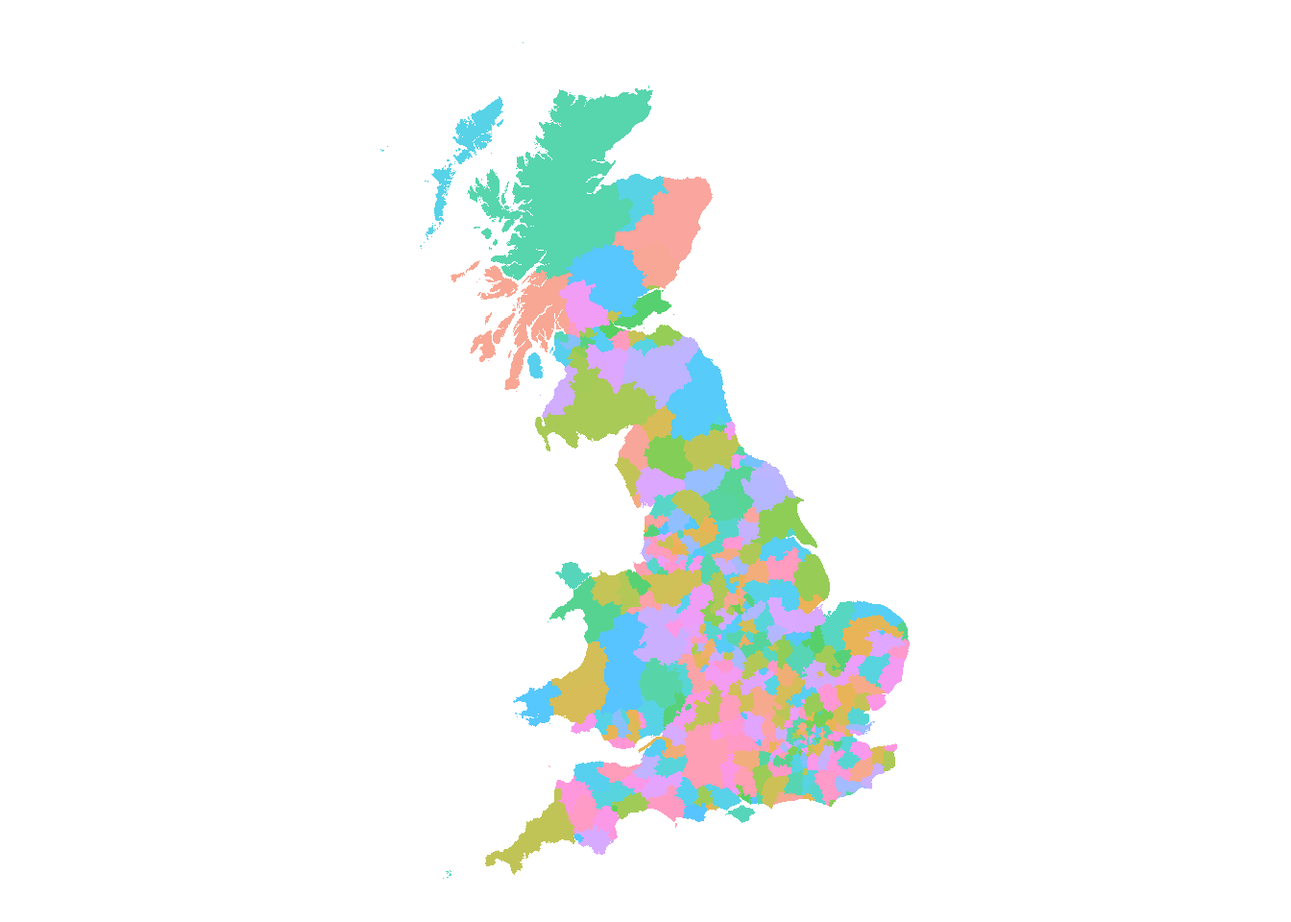
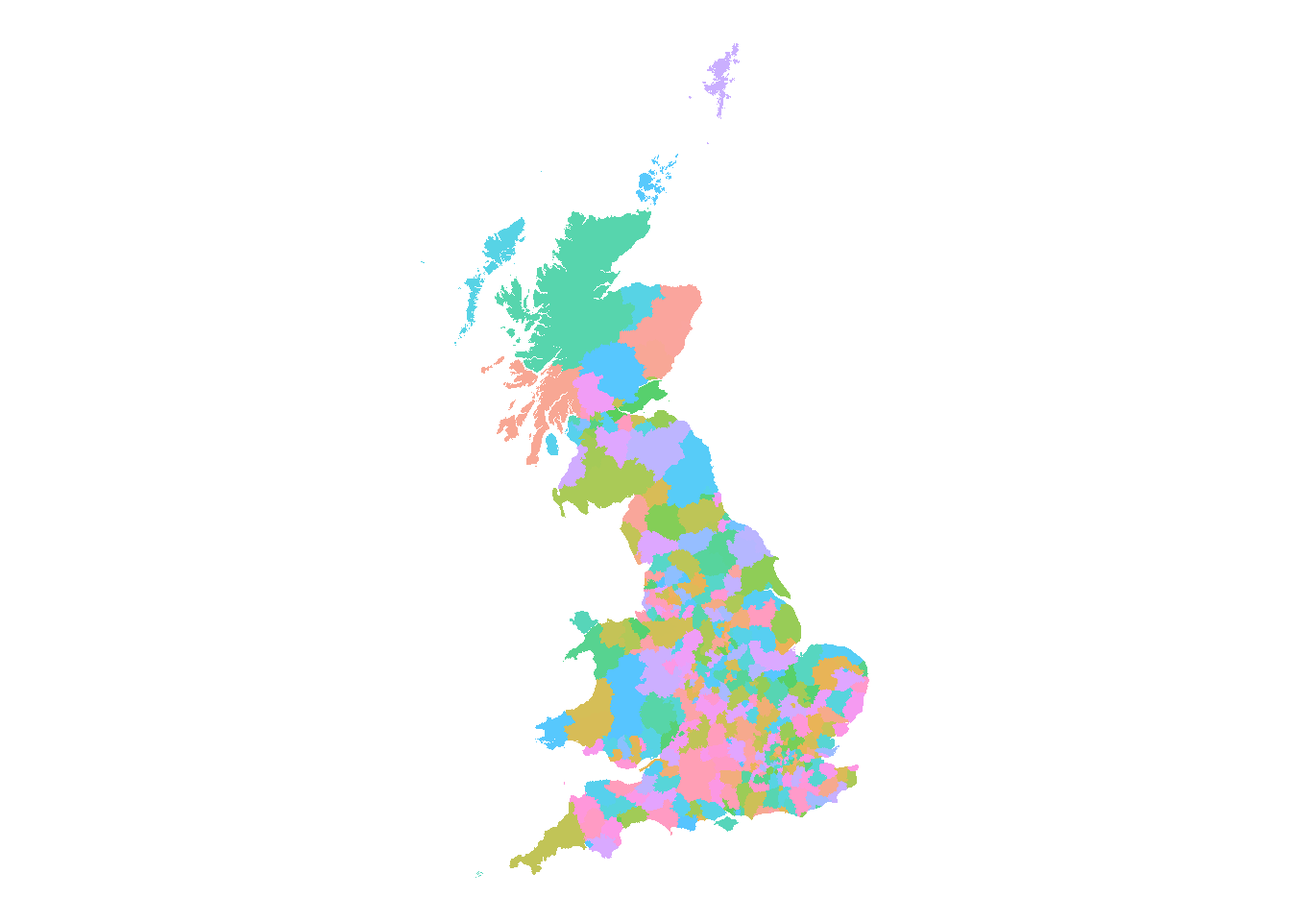
map lines

Changed region(s): [[0.3125, 0.0625, 0.7188, 0.9375]]

diff --git a/docs/Maps.html b/docs/Maps.html
@@ -232,9 +232,7 @@ div.csl-indent {
   <ul>
   <li><a href="#how-heterogenous-is-uk-house-price-inflation" id="toc-how-heterogenous-is-uk-house-price-inflation" class="nav-link active" data-scroll-target="#how-heterogenous-is-uk-house-price-inflation"><span class="toc-section-number">5.1</span>  How heterogenous is UK house price inflation?</a>
   <ul class="collapse">
-  <li><a href="#tidy-data" id="toc-tidy-data" class="nav-link" data-scroll-target="#tidy-data"><span class="toc-section-number">5.1.1</span>  Tidy data</a></li>
-  <li><a href="#la-boundaries" id="toc-la-boundaries" class="nav-link" data-scroll-target="#la-boundaries"><span class="toc-section-number">5.1.2</span>  LA boundaries</a></li>
-  <li><a href="#inflation-data-and-regions" id="toc-inflation-data-and-regions" class="nav-link" data-scroll-target="#inflation-data-and-regions"><span class="toc-section-number">5.1.3</span>  Inflation data and regions</a></li>
+  <li><a href="#inflation-data-and-regions" id="toc-inflation-data-and-regions" class="nav-link" data-scroll-target="#inflation-data-and-regions"><span class="toc-section-number">5.1.1</span>  Inflation data and regions</a></li>
   </ul></li>
   <li><a href="#inflation-in-grayscale" id="toc-inflation-in-grayscale" class="nav-link" data-scroll-target="#inflation-in-grayscale"><span class="toc-section-number">5.2</span>  Inflation in grayscale</a></li>
   </ul>
@@ -270,7 +268,7 @@ div.csl-indent {
 <li>It has to be in grayscale.</li>
 </ul>
 <p>Before all of this we need some data, with boundaries that correspond to areas that we have data for. The regional inflation data is available at the level of the <a href="https://www.gov.uk/government/organisations/land-registry">Land Registry</a>, which almost by local authority but amalgamates a number of the areas. So a map at Local Authority level would be fine as long as we can amalgamate some of the regions.</p>
-<p>The map data used here is available from the UK’s <a href="https://geoportal.statistics.gov.uk/">ONS geoportal</a>, with a lot of administrative data available including local authority boundaries. The Local Authority data is specifically available from <a href="https://geoportal.statistics.gov.uk/datasets/ons::local-authority-districts-december-2015-boundaries?layer=0">here</a>, where I use the clipped full extent version. There are a number of possibilities, but in general high water mark, and enough but not too much detail is needed.</p>
+<p>The map data used here is available from the UK’s <a href="https://geoportal.statistics.gov.uk/">ONS geoportal</a>, with a lot of administrative data available including local authority boundaries. The Local Authority data is specifically available from <a href="https://geoportal.statistics.gov.uk/maps/lad-dec-2015-generalised-clipped-boundaries-gb">here</a>, where I use the clipped full extent version. There are a number of possibilities, but in general high water mark, and enough but not too much detail is needed.</p>
 <div class="cell">
 <div class="sourceCode cell-code" id="cb1"><pre class="sourceCode r code-with-copy"><code class="sourceCode r"><span id="cb1-1"><a href="#cb1-1" aria-hidden="true" tabindex="-1"></a><span class="fu">library</span>(tidyverse)</span>
 <span id="cb1-2"><a href="#cb1-2" aria-hidden="true" tabindex="-1"></a><span class="fu">library</span>(readxl)</span>
@@ -279,22 +277,20 @@ div.csl-indent {
 <p>The information in the map file is comprehensive, and by Local Authority as of December 2015.</p>
 <div class="cell" data-layout-align="center">
 <div class="sourceCode cell-code" id="cb2"><pre class="sourceCode r code-with-copy"><code class="sourceCode r"><span id="cb2-1"><a href="#cb2-1" aria-hidden="true" tabindex="-1"></a>fle <span class="ot">&lt;-</span> <span class="st">"LAD_Dec_2015_GCB_GB"</span></span>
-<span id="cb2-2"><a href="#cb2-2" aria-hidden="true" tabindex="-1"></a>shape <span class="ot">&lt;-</span> <span class="fu">read_sf</span>(<span class="at">dsn=</span><span class="st">"."</span>, <span class="at">layer=</span>fle) <span class="sc">%&gt;%</span></span>
-<span id="cb2-3"><a href="#cb2-3" aria-hidden="true" tabindex="-1"></a>  <span class="fu">filter</span>(<span class="sc">!</span>lad15nm <span class="sc">%in%</span> <span class="fu">c</span>(<span class="st">"Shetland Islands"</span>,<span class="st">"Orkney Islands"</span>)) <span class="sc">%&gt;%</span></span>
-<span id="cb2-4"><a href="#cb2-4" aria-hidden="true" tabindex="-1"></a>  <span class="fu">mutate</span>(<span class="at">Country=</span><span class="fu">str_sub</span>(lad15cd, <span class="dv">1</span>, <span class="dv">1</span>), <span class="at">.after=</span><span class="dv">1</span>)</span></code><button title="Copy to Clipboard" class="code-copy-button"><i class="bi"></i></button></pre></div>
+<span id="cb2-2"><a href="#cb2-2" aria-hidden="true" tabindex="-1"></a>shape <span class="ot">&lt;-</span> <span class="fu">read_sf</span>(<span class="at">dsn=</span><span class="st">"."</span>, <span class="at">layer=</span>fle)</span></code><button title="Copy to Clipboard" class="code-copy-button"><i class="bi"></i></button></pre></div>
 </div>
 <p>We can look at the attributes using <code>summary</code>.</p>
 <div class="cell" data-layout-align="center">
 <div class="sourceCode cell-code" id="cb3"><pre class="sourceCode r code-with-copy"><code class="sourceCode r"><span id="cb3-1"><a href="#cb3-1" aria-hidden="true" tabindex="-1"></a><span class="fu">summary</span>(shape)</span></code><button title="Copy to Clipboard" class="code-copy-button"><i class="bi"></i></button></pre></div>
 <div class="cell-output cell-output-stdout">
-<pre><code>   lad15cd            Country            lad15nm            lad15nmw        
- Length:378         Length:378         Length:378         Length:378        
+<pre><code>   lad15cd            lad15nm            lad15nmw           GlobalID        
+ Length:380         Length:380         Length:380         Length:380        
  Class :character   Class :character   Class :character   Class :character  
  Mode  :character   Mode  :character   Mode  :character   Mode  :character  
-   GlobalID                  geometry  
- Length:378         MULTIPOLYGON :378  
- Class :character   epsg:27700   :  0  
- Mode  :character   +proj=tmer...:  0  </code></pre>
+          geometry  
+ MULTIPOLYGON :380  
+ epsg:27700   :  0  
+ +proj=tmer...:  0  </code></pre>
 </div>
 </div>
 <p>This can be plotted straightforwardly using <code>ggplot</code>.</p>
@@ -311,61 +307,63 @@ div.csl-indent {
 </figure>
 </div>
 </div>
-<div class="sourceCode cell-code" id="cb6"><pre class="sourceCode r code-with-copy"><code class="sourceCode r"><span id="cb6-1"><a href="#cb6-1" aria-hidden="true" tabindex="-1"></a>shape <span class="sc">%&gt;%</span></span>
-<span id="cb6-2"><a href="#cb6-2" aria-hidden="true" tabindex="-1"></a>  <span class="fu">group_by</span>(Country) <span class="sc">%&gt;%</span></span>
-<span id="cb6-3"><a href="#cb6-3" aria-hidden="true" tabindex="-1"></a>  <span class="fu">summarise</span>() <span class="sc">%&gt;%</span></span>
-<span id="cb6-4"><a href="#cb6-4" aria-hidden="true" tabindex="-1"></a>  <span class="fu">ggplot</span>() <span class="sc">+</span></span>
-<span id="cb6-5"><a href="#cb6-5" aria-hidden="true" tabindex="-1"></a>  <span class="fu">geom_sf</span>(<span class="fu">aes</span>(<span class="at">fill=</span>Country), <span class="at">color=</span><span class="st">"grey77"</span>, <span class="at">alpha=</span>.<span class="dv">66</span>) <span class="sc">+</span></span>
-<span id="cb6-6"><a href="#cb6-6" aria-hidden="true" tabindex="-1"></a>  <span class="fu">theme_void</span>()</span></code><button title="Copy to Clipboard" class="code-copy-button"><i class="bi"></i></button></pre></div>
+</div>
+<p>Looking at the read-out above, each of the 380 regions have some metadata associated, which are contained in each of the listed attributes. It should be obvious that <code>objectid</code> is just a sequence from 1 to 380. <code>lad15nm</code> turns out to be a list of names of the regions – I suspect <code>lad</code> for Local Authority District, <code>15</code> for 2015 and <code>nm</code> for name – and it is easy to specify this as the name to use for the region when using <code>tidy</code>.</p>
+<p>Now this can be plotted using <code>ggplot</code>, using <code>geometry</code> for the <span class="math inline">\(x\)</span> and <span class="math inline">\(y\)</span> coordinates. The choice of fill colour is determined by <code>fill</code> and we can set the colour of the lines by <code>colour</code> (or <code>color</code>). The two extra arguments are for a suitable blank style and to impose an appropriate ratio of height to width.</p>
+<p>Immediately, the awkward shape of the British Isles is apparent. (Note this is a plot of Great Britain, and there is no Northern Ireland.) The islands to the far north are somewhat unnecessary, although quite rightly the inhabitants get a bit tired of being left off maps! Nonetheless I’ll do exactly the same by filtering out the polygons associated with <code>Orkney Islands</code> and <code>Shetland Islands</code>.</p>
+<p>Fewer Scottish Islands makes the graphs a lot clearer with little loss of information, given the tiny number of transactions in the Orkneys and the Shetlands, very far to the north.</p>
+<p>In what follows we filter out the islands using</p>
+<div class="cell" data-layout-align="center">
+<div class="sourceCode cell-code" id="cb6"><pre class="sourceCode r code-with-copy"><code class="sourceCode r"><span id="cb6-1"><a href="#cb6-1" aria-hidden="true" tabindex="-1"></a>fle <span class="ot">&lt;-</span> <span class="st">"LAD_Dec_2015_GCB_GB"</span></span>
+<span id="cb6-2"><a href="#cb6-2" aria-hidden="true" tabindex="-1"></a>shape <span class="ot">&lt;-</span> <span class="fu">read_sf</span>(<span class="at">dsn=</span><span class="st">"."</span>, <span class="at">layer=</span>fle) <span class="sc">%&gt;%</span></span>
+<span id="cb6-3"><a href="#cb6-3" aria-hidden="true" tabindex="-1"></a>  <span class="fu">filter</span>(<span class="sc">!</span>lad15nm <span class="sc">%in%</span> <span class="fu">c</span>(<span class="st">"Shetland Islands"</span>,<span class="st">"Orkney Islands"</span>)) <span class="sc">%&gt;%</span></span>
+<span id="cb6-4"><a href="#cb6-4" aria-hidden="true" tabindex="-1"></a>  <span class="fu">mutate</span>(<span class="at">Country=</span><span class="fu">str_sub</span>(lad15cd, <span class="dv">1</span>, <span class="dv">1</span>), <span class="at">.after=</span><span class="dv">1</span>)</span></code><button title="Copy to Clipboard" class="code-copy-button"><i class="bi"></i></button></pre></div>
+</div>
+<p>where we also create an indicator of country using the first letter of the code string.</p>
+<p>So the country map is</p>
+<div class="cell" data-layout-align="center">
+<div class="sourceCode cell-code" id="cb7"><pre class="sourceCode r code-with-copy"><code class="sourceCode r"><span id="cb7-1"><a href="#cb7-1" aria-hidden="true" tabindex="-1"></a>shape <span class="sc">%&gt;%</span></span>
+<span id="cb7-2"><a href="#cb7-2" aria-hidden="true" tabindex="-1"></a>  <span class="fu">group_by</span>(Country) <span class="sc">%&gt;%</span></span>
+<span id="cb7-3"><a href="#cb7-3" aria-hidden="true" tabindex="-1"></a>  <span class="fu">summarise</span>() <span class="sc">%&gt;%</span></span>
+<span id="cb7-4"><a href="#cb7-4" aria-hidden="true" tabindex="-1"></a>  <span class="fu">ggplot</span>() <span class="sc">+</span></span>
+<span id="cb7-5"><a href="#cb7-5" aria-hidden="true" tabindex="-1"></a>  <span class="fu">geom_sf</span>(<span class="fu">aes</span>(<span class="at">fill=</span>Country), <span class="at">color=</span><span class="st">"grey77"</span>, <span class="at">linewidth=</span><span class="dv">1</span>, <span class="at">alpha=</span>.<span class="dv">66</span>) <span class="sc">+</span></span>
+<span id="cb7-6"><a href="#cb7-6" aria-hidden="true" tabindex="-1"></a>  <span class="fu">theme_void</span>()</span></code><button title="Copy to Clipboard" class="code-copy-button"><i class="bi"></i></button></pre></div>
 <div class="cell-output-display">
 <div class="quarto-figure quarto-figure-center">
 <figure class="figure">
-<p><img src="Maps_files/figure-html/map0a-2.png" class="img-fluid figure-img" width="672"></p>
+<p><img src="Maps_files/figure-html/map0d-1.png" class="img-fluid figure-img" width="672"></p>
 </figure>
 </div>
 </div>
 </div>
-<section id="tidy-data" class="level3" data-number="5.1.1">
-<h3 data-number="5.1.1" class="anchored" data-anchor-id="tidy-data"><span class="header-section-number">5.1.1</span> Tidy data</h3>
-<p>However, <code>ggplot</code> can be used.</p>
-<p>Looking at the read-out above, each of the 380 regions have some metadata associated, which are contained in each of the listed attributes. It should be obvious that <code>objectid</code> is just a sequence from 1 to 380. <code>lad15nm</code> turns out to be a list of names of the regions – I suspect <code>lad</code> for Local Authority District, <code>15</code> for 2015 and <code>nm</code> for name – and it is easy to specify this as the name to use for the region when using <code>tidy</code>.</p>
-<p>Now this can be plotted using <code>ggplot</code>, using <code>long</code> and <code>lat</code> as the <span class="math inline">\(x\)</span> and <span class="math inline">\(y\)</span> coordinates. The choice of fill colour is determined by <code>fill</code> and we can set the colour of the lines by <code>colour</code> (or <code>color</code>). The two extra arguments are for a suitable blank style and to impose an appropriate ratio of height to width.</p>
-<p>Immediately, the awkward shape of the British Isles is apparent. (Note this is a plot of Great Britain, and there is no Northern Ireland.) The islands to the far north are somewhat unnecessary, although quite rightly the inhabitants get a bit tired of being left off maps! Nonetheless I’ll do exactly the same by filtering out the polygons associated with <code>Orkney Islands</code> and <code>Shetland Islands</code>.</p>
-<div class="cell" data-layout-align="center">
-
-</div>
-<p>Fewer Scottish Islands makes the graphs a lot clearer with little loss of information, given the tiny number of transactions in the Orkneys and the Shetlands, very far to the north.</p>
-</section>
-<section id="la-boundaries" class="level3" data-number="5.1.2">
-<h3 data-number="5.1.2" class="anchored" data-anchor-id="la-boundaries"><span class="header-section-number">5.1.2</span> LA boundaries</h3>
-<p>You may have noticed, one thing that that’s missing on all of these graphs is the Local Authority boundaries. They aren’t, they’re just invisible. That’s because I have set <code>colour = NA</code> in all the graphs above, so we can fix that by choosing a colour and making the lines very thin so they don’t swamp the map.</p>
+<p>Note the really nice feature – if we group by something, in this case country, we can summarise to amalgamate the geometries!</p>
+<p>You may have noticed, one thing that that’s missing on the LA graphs is the boundaries. They aren’t, they’re just invisible. That’s because I have set <code>colour = NA</code>, so we can fix that by choosing a colour and making the lines very thin so they don’t swamp the map, as in the country one.</p>
 <div class="cell" data-layout-align="center">
 
 </div>
 <p>One further amendment, the <code>fill</code> is moved inside the <code>aes()</code> specification and made conditional. <code>R</code> now chooses unique colours for each of the regions.</p>
 <p>Two things now need to be done to get the map colours right to illustrate regional inflation rates. First we need to amalgamate some of the Local Authority boundaries to the Land Registry definitions, and second we need to assign the inflation rate to each area.</p>
-</section>
-<section id="inflation-data-and-regions" class="level3" data-number="5.1.3">
-<h3 data-number="5.1.3" class="anchored" data-anchor-id="inflation-data-and-regions"><span class="header-section-number">5.1.3</span> Inflation data and regions</h3>
+<section id="inflation-data-and-regions" class="level3" data-number="5.1.1">
+<h3 data-number="5.1.1" class="anchored" data-anchor-id="inflation-data-and-regions"><span class="header-section-number">5.1.1</span> Inflation data and regions</h3>
 <p>We have a map, and we have that data in a form that is easy to understand. If we can suitably attach an inflation rate to each area then we can fill the individual areas with a colour unique to each individual inflation rates.</p>
 <p>Recall that the Land Registry areas aren’t quite what we have, and will need amalgamating. <span class="citation" data-cites="BFP">Bahaj, Foulis, and Pinter (<a href="references.html#ref-BFP" role="doc-biblioref">2020</a>)</span> supplied me the areas that needed amalgamating (and the inflation rates) using the <a href="https://en.wikipedia.org/wiki/ONS_coding_system">ONS codes</a>. This is contained in the metadata <code>lad15cd</code> above.</p>
 <p>The data is structured in ‘wide’ format with one row for each Land Registry region. The details aren’t very important for us now, but what it means is I can manipulate it to get</p>
 <div class="cell">
-<div class="sourceCode cell-code" id="cb7"><pre class="sourceCode r code-with-copy"><code class="sourceCode r"><span id="cb7-1"><a href="#cb7-1" aria-hidden="true" tabindex="-1"></a><span class="co"># Price data by Land Registry region, converted to long format</span></span>
-<span id="cb7-2"><a href="#cb7-2" aria-hidden="true" tabindex="-1"></a>hp_data <span class="ot">&lt;-</span> <span class="fu">read_excel</span>(<span class="st">"house_price_data_figure_1.xls"</span>)  <span class="sc">%&gt;%</span> </span>
-<span id="cb7-3"><a href="#cb7-3" aria-hidden="true" tabindex="-1"></a>  <span class="fu">select</span>(<span class="st">"land_reg_region"</span>, <span class="fu">starts_with</span>(<span class="st">"e_"</span>), <span class="fu">starts_with</span>(<span class="st">"av_"</span>)) <span class="sc">%&gt;%</span> </span>
-<span id="cb7-4"><a href="#cb7-4" aria-hidden="true" tabindex="-1"></a>  <span class="fu">pivot_longer</span>(<span class="at">names_to  =</span> <span class="st">"name"</span>, </span>
-<span id="cb7-5"><a href="#cb7-5" aria-hidden="true" tabindex="-1"></a>               <span class="at">values_to =</span> <span class="st">"lad15cd"</span>, </span>
-<span id="cb7-6"><a href="#cb7-6" aria-hidden="true" tabindex="-1"></a>               <span class="at">cols      =</span> <span class="fu">c</span>(<span class="sc">-</span>land_reg_region, <span class="sc">-</span><span class="fu">starts_with</span>(<span class="st">"av_"</span>))) <span class="sc">%&gt;%</span> </span>
-<span id="cb7-7"><a href="#cb7-7" aria-hidden="true" tabindex="-1"></a>  <span class="fu">drop_na</span>() <span class="sc">%&gt;%</span></span>
-<span id="cb7-8"><a href="#cb7-8" aria-hidden="true" tabindex="-1"></a>  <span class="fu">select</span>(land_reg_region, lad15cd, <span class="fu">starts_with</span>(<span class="st">"av_"</span>)) </span>
-<span id="cb7-9"><a href="#cb7-9" aria-hidden="true" tabindex="-1"></a></span>
-<span id="cb7-10"><a href="#cb7-10" aria-hidden="true" tabindex="-1"></a>codes <span class="ot">&lt;-</span> hp_data <span class="sc">%&gt;%</span> </span>
-<span id="cb7-11"><a href="#cb7-11" aria-hidden="true" tabindex="-1"></a>  <span class="fu">select</span>(lad15cd, land_reg_region) </span></code><button title="Copy to Clipboard" class="code-copy-button"><i class="bi"></i></button></pre></div>
+<div class="sourceCode cell-code" id="cb8"><pre class="sourceCode r code-with-copy"><code class="sourceCode r"><span id="cb8-1"><a href="#cb8-1" aria-hidden="true" tabindex="-1"></a><span class="co"># Price data by Land Registry region, converted to long format</span></span>
+<span id="cb8-2"><a href="#cb8-2" aria-hidden="true" tabindex="-1"></a>hp_data <span class="ot">&lt;-</span> <span class="fu">read_excel</span>(<span class="st">"house_price_data_figure_1.xls"</span>)  <span class="sc">%&gt;%</span> </span>
+<span id="cb8-3"><a href="#cb8-3" aria-hidden="true" tabindex="-1"></a>  <span class="fu">select</span>(<span class="st">"land_reg_region"</span>, <span class="fu">starts_with</span>(<span class="st">"e_"</span>), <span class="fu">starts_with</span>(<span class="st">"av_"</span>)) <span class="sc">%&gt;%</span> </span>
+<span id="cb8-4"><a href="#cb8-4" aria-hidden="true" tabindex="-1"></a>  <span class="fu">pivot_longer</span>(<span class="at">names_to  =</span> <span class="st">"name"</span>, </span>
+<span id="cb8-5"><a href="#cb8-5" aria-hidden="true" tabindex="-1"></a>               <span class="at">values_to =</span> <span class="st">"lad15cd"</span>, </span>
+<span id="cb8-6"><a href="#cb8-6" aria-hidden="true" tabindex="-1"></a>               <span class="at">cols      =</span> <span class="fu">c</span>(<span class="sc">-</span>land_reg_region, <span class="sc">-</span><span class="fu">starts_with</span>(<span class="st">"av_"</span>))) <span class="sc">%&gt;%</span> </span>
+<span id="cb8-7"><a href="#cb8-7" aria-hidden="true" tabindex="-1"></a>  <span class="fu">drop_na</span>() <span class="sc">%&gt;%</span></span>
+<span id="cb8-8"><a href="#cb8-8" aria-hidden="true" tabindex="-1"></a>  <span class="fu">select</span>(land_reg_region, lad15cd, <span class="fu">starts_with</span>(<span class="st">"av_"</span>)) </span>
+<span id="cb8-9"><a href="#cb8-9" aria-hidden="true" tabindex="-1"></a></span>
+<span id="cb8-10"><a href="#cb8-10" aria-hidden="true" tabindex="-1"></a>codes <span class="ot">&lt;-</span> hp_data <span class="sc">%&gt;%</span> </span>
+<span id="cb8-11"><a href="#cb8-11" aria-hidden="true" tabindex="-1"></a>  <span class="fu">select</span>(lad15cd, land_reg_region) </span></code><button title="Copy to Clipboard" class="code-copy-button"><i class="bi"></i></button></pre></div>
 </div>
 <p>The important thing that the <code>pivot_longer</code> achieves is that for every <code>land_reg_region</code> I get a list of all the ONS codes that makes up the Local Authority level. So if I look at <code>buckinghamshire</code> as an example there are four ONS codes now associated with it.</p>
 <div class="cell">
-<div class="sourceCode cell-code" id="cb8"><pre class="sourceCode r code-with-copy"><code class="sourceCode r"><span id="cb8-1"><a href="#cb8-1" aria-hidden="true" tabindex="-1"></a><span class="fu">filter</span>(codes, land_reg_region <span class="sc">==</span> <span class="st">"buckinghamshire"</span>)</span></code><button title="Copy to Clipboard" class="code-copy-button"><i class="bi"></i></button></pre></div>
+<div class="sourceCode cell-code" id="cb9"><pre class="sourceCode r code-with-copy"><code class="sourceCode r"><span id="cb9-1"><a href="#cb9-1" aria-hidden="true" tabindex="-1"></a><span class="fu">filter</span>(codes, land_reg_region <span class="sc">==</span> <span class="st">"buckinghamshire"</span>)</span></code><button title="Copy to Clipboard" class="code-copy-button"><i class="bi"></i></button></pre></div>
 <div class="cell-output cell-output-stdout">
 <pre><code># A tibble: 4 × 2
   lad15cd   land_reg_region
@@ -378,12 +376,12 @@ div.csl-indent {
 </div>
 <p>Join:</p>
 <div class="cell">
-<div class="sourceCode cell-code" id="cb10"><pre class="sourceCode r code-with-copy"><code class="sourceCode r"><span id="cb10-1"><a href="#cb10-1" aria-hidden="true" tabindex="-1"></a><span class="co"># Join polygons defined by Land Registry regions</span></span>
-<span id="cb10-2"><a href="#cb10-2" aria-hidden="true" tabindex="-1"></a>gg <span class="ot">&lt;-</span> shape <span class="sc">%&gt;%</span></span>
-<span id="cb10-3"><a href="#cb10-3" aria-hidden="true" tabindex="-1"></a>  <span class="fu">select</span>(<span class="fu">starts_with</span>(<span class="fu">c</span>(<span class="st">"lad"</span>,<span class="st">"C"</span>))) <span class="sc">%&gt;%</span> </span>
-<span id="cb10-4"><a href="#cb10-4" aria-hidden="true" tabindex="-1"></a>  <span class="fu">left_join</span>(codes, <span class="at">by=</span><span class="st">"lad15cd"</span>) <span class="sc">%&gt;%</span></span>
-<span id="cb10-5"><a href="#cb10-5" aria-hidden="true" tabindex="-1"></a>  <span class="fu">group_by</span>(land_reg_region) <span class="sc">%&gt;%</span></span>
-<span id="cb10-6"><a href="#cb10-6" aria-hidden="true" tabindex="-1"></a>  <span class="fu">summarise</span>() </span></code><button title="Copy to Clipboard" class="code-copy-button"><i class="bi"></i></button></pre></div>
+<div class="sourceCode cell-code" id="cb11"><pre class="sourceCode r code-with-copy"><code class="sourceCode r"><span id="cb11-1"><a href="#cb11-1" aria-hidden="true" tabindex="-1"></a><span class="co"># Join polygons defined by Land Registry regions</span></span>
+<span id="cb11-2"><a href="#cb11-2" aria-hidden="true" tabindex="-1"></a>gg <span class="ot">&lt;-</span> shape <span class="sc">%&gt;%</span></span>
+<span id="cb11-3"><a href="#cb11-3" aria-hidden="true" tabindex="-1"></a>  <span class="fu">select</span>(<span class="fu">starts_with</span>(<span class="fu">c</span>(<span class="st">"lad"</span>,<span class="st">"C"</span>))) <span class="sc">%&gt;%</span> </span>
+<span id="cb11-4"><a href="#cb11-4" aria-hidden="true" tabindex="-1"></a>  <span class="fu">left_join</span>(codes, <span class="at">by=</span><span class="st">"lad15cd"</span>) <span class="sc">%&gt;%</span></span>
+<span id="cb11-5"><a href="#cb11-5" aria-hidden="true" tabindex="-1"></a>  <span class="fu">group_by</span>(land_reg_region) <span class="sc">%&gt;%</span></span>
+<span id="cb11-6"><a href="#cb11-6" aria-hidden="true" tabindex="-1"></a>  <span class="fu">summarise</span>() </span></code><button title="Copy to Clipboard" class="code-copy-button"><i class="bi"></i></button></pre></div>
 </div>
 <p>produces a match between the Land Registry and the Local Authority areas, plus the inflation rates. To illustrate this just filter out the <code>buckinghamshire</code> ones again to see:</p>
 </section>
@@ -393,11 +391,11 @@ div.csl-indent {
 <p>All the information required to plot the Land Registry-based regional inflation rates is now available. As you can see from the <code>buckinghamshire</code> data above, there are three average rates in three different periods, so I’ll focus on one, 2002-2007 to begin with.</p>
 <p>First, augment the geographic data with the inflation data, and call them something better.</p>
 <div class="cell" data-layout-align="center">
-<div class="sourceCode cell-code" id="cb11"><pre class="sourceCode r code-with-copy"><code class="sourceCode r"><span id="cb11-1"><a href="#cb11-1" aria-hidden="true" tabindex="-1"></a>gg <span class="sc">%&gt;%</span></span>
-<span id="cb11-2"><a href="#cb11-2" aria-hidden="true" tabindex="-1"></a>  <span class="fu">ggplot</span>() <span class="sc">+</span></span>
-<span id="cb11-3"><a href="#cb11-3" aria-hidden="true" tabindex="-1"></a>  <span class="fu">geom_sf</span>(<span class="fu">aes</span>(<span class="at">geometry=</span>geometry, <span class="at">fill=</span>land_reg_region), </span>
-<span id="cb11-4"><a href="#cb11-4" aria-hidden="true" tabindex="-1"></a>          <span class="at">color=</span><span class="cn">NA</span>, <span class="at">alpha=</span>.<span class="dv">66</span>, <span class="at">show.legend =</span> <span class="cn">FALSE</span>) <span class="sc">+</span></span>
-<span id="cb11-5"><a href="#cb11-5" aria-hidden="true" tabindex="-1"></a>  <span class="fu">theme_void</span>()</span></code><button title="Copy to Clipboard" class="code-copy-button"><i class="bi"></i></button></pre></div>
+<div class="sourceCode cell-code" id="cb12"><pre class="sourceCode r code-with-copy"><code class="sourceCode r"><span id="cb12-1"><a href="#cb12-1" aria-hidden="true" tabindex="-1"></a>gg <span class="sc">%&gt;%</span></span>
+<span id="cb12-2"><a href="#cb12-2" aria-hidden="true" tabindex="-1"></a>  <span class="fu">ggplot</span>() <span class="sc">+</span></span>
+<span id="cb12-3"><a href="#cb12-3" aria-hidden="true" tabindex="-1"></a>  <span class="fu">geom_sf</span>(<span class="fu">aes</span>(<span class="at">geometry=</span>geometry, <span class="at">fill=</span>land_reg_region), </span>
+<span id="cb12-4"><a href="#cb12-4" aria-hidden="true" tabindex="-1"></a>          <span class="at">color=</span><span class="cn">NA</span>, <span class="at">alpha=</span>.<span class="dv">66</span>, <span class="at">show.legend =</span> <span class="cn">FALSE</span>) <span class="sc">+</span></span>
+<span id="cb12-5"><a href="#cb12-5" aria-hidden="true" tabindex="-1"></a>  <span class="fu">theme_void</span>()</span></code><button title="Copy to Clipboard" class="code-copy-button"><i class="bi"></i></button></pre></div>
 <div class="cell-output-display">
 <div class="quarto-figure quarto-figure-center">
 <figure class="figure">
@@ -408,21 +406,21 @@ div.csl-indent {
 </div>
 <p>Then calculate some limits for the gradient, and modify the specify a plot to include specifically gray and put the legend at the bottom.</p>
 <div class="cell" data-layout-align="center">
-<div class="sourceCode cell-code" id="cb12"><pre class="sourceCode r code-with-copy"><code class="sourceCode r"><span id="cb12-1"><a href="#cb12-1" aria-hidden="true" tabindex="-1"></a>nms <span class="ot">&lt;-</span> <span class="fu">gsub</span>(<span class="st">"av_hp_growth"</span>, <span class="st">"HPI"</span>, <span class="fu">colnames</span>(hp_data))</span>
-<span id="cb12-2"><a href="#cb12-2" aria-hidden="true" tabindex="-1"></a></span>
-<span id="cb12-3"><a href="#cb12-3" aria-hidden="true" tabindex="-1"></a>hp_data <span class="sc">%&gt;%</span></span>
-<span id="cb12-4"><a href="#cb12-4" aria-hidden="true" tabindex="-1"></a>  <span class="fu">rename_all</span>( <span class="sc">~</span> nms) <span class="sc">%&gt;%</span></span>
-<span id="cb12-5"><a href="#cb12-5" aria-hidden="true" tabindex="-1"></a>  <span class="fu">select</span>(land_reg_region, <span class="fu">starts_with</span>(<span class="st">"HPI"</span>)) <span class="sc">%&gt;%</span></span>
-<span id="cb12-6"><a href="#cb12-6" aria-hidden="true" tabindex="-1"></a>  <span class="fu">distinct</span>() <span class="sc">%&gt;%</span></span>
-<span id="cb12-7"><a href="#cb12-7" aria-hidden="true" tabindex="-1"></a>  <span class="fu">left_join</span>(gg) <span class="sc">%&gt;%</span></span>
-<span id="cb12-8"><a href="#cb12-8" aria-hidden="true" tabindex="-1"></a>  <span class="fu">ggplot</span>() <span class="sc">+</span></span>
-<span id="cb12-9"><a href="#cb12-9" aria-hidden="true" tabindex="-1"></a>  <span class="fu">geom_sf</span>(<span class="fu">aes</span>(<span class="at">geometry=</span>geometry, <span class="at">fill=</span>HPI_02_07), </span>
-<span id="cb12-10"><a href="#cb12-10" aria-hidden="true" tabindex="-1"></a>          <span class="at">color=</span><span class="cn">NA</span>, <span class="at">alpha=</span>.<span class="dv">66</span>, <span class="at">show.legend =</span> <span class="cn">FALSE</span>) <span class="sc">+</span></span>
-<span id="cb12-11"><a href="#cb12-11" aria-hidden="true" tabindex="-1"></a>  <span class="fu">theme_void</span>() <span class="sc">+</span></span>
-<span id="cb12-12"><a href="#cb12-12" aria-hidden="true" tabindex="-1"></a>  <span class="fu">scale_fill_gradient</span>(<span class="at">low=</span><span class="fu">grey</span>(<span class="fl">0.9</span>), <span class="at">high=</span><span class="fu">grey</span>(<span class="fl">0.05</span>)) <span class="sc">+</span></span>
-<span id="cb12-13"><a href="#cb12-13" aria-hidden="true" tabindex="-1"></a>  <span class="fu">theme</span>(<span class="at">legend.direction =</span> <span class="st">"horizontal"</span>, </span>
-<span id="cb12-14"><a href="#cb12-14" aria-hidden="true" tabindex="-1"></a>        <span class="at">legend.position  =</span> <span class="fu">c</span>(<span class="fl">0.75</span>,<span class="fl">0.05</span>),</span>
-<span id="cb12-15"><a href="#cb12-15" aria-hidden="true" tabindex="-1"></a>        <span class="at">legend.title     =</span> <span class="fu">element_blank</span>())</span></code><button title="Copy to Clipboard" class="code-copy-button"><i class="bi"></i></button></pre></div>
+<div class="sourceCode cell-code" id="cb13"><pre class="sourceCode r code-with-copy"><code class="sourceCode r"><span id="cb13-1"><a href="#cb13-1" aria-hidden="true" tabindex="-1"></a>nms <span class="ot">&lt;-</span> <span class="fu">gsub</span>(<span class="st">"av_hp_growth"</span>, <span class="st">"HPI"</span>, <span class="fu">colnames</span>(hp_data))</span>
+<span id="cb13-2"><a href="#cb13-2" aria-hidden="true" tabindex="-1"></a></span>
+<span id="cb13-3"><a href="#cb13-3" aria-hidden="true" tabindex="-1"></a>hp_data <span class="sc">%&gt;%</span></span>
+<span id="cb13-4"><a href="#cb13-4" aria-hidden="true" tabindex="-1"></a>  <span class="fu">rename_all</span>( <span class="sc">~</span> nms) <span class="sc">%&gt;%</span></span>
+<span id="cb13-5"><a href="#cb13-5" aria-hidden="true" tabindex="-1"></a>  <span class="fu">select</span>(land_reg_region, <span class="fu">starts_with</span>(<span class="st">"HPI"</span>)) <span class="sc">%&gt;%</span></span>
+<span id="cb13-6"><a href="#cb13-6" aria-hidden="true" tabindex="-1"></a>  <span class="fu">distinct</span>() <span class="sc">%&gt;%</span></span>
+<span id="cb13-7"><a href="#cb13-7" aria-hidden="true" tabindex="-1"></a>  <span class="fu">left_join</span>(gg) <span class="sc">%&gt;%</span></span>
+<span id="cb13-8"><a href="#cb13-8" aria-hidden="true" tabindex="-1"></a>  <span class="fu">ggplot</span>() <span class="sc">+</span></span>
+<span id="cb13-9"><a href="#cb13-9" aria-hidden="true" tabindex="-1"></a>  <span class="fu">geom_sf</span>(<span class="fu">aes</span>(<span class="at">geometry=</span>geometry, <span class="at">fill=</span>HPI_02_07), </span>
+<span id="cb13-10"><a href="#cb13-10" aria-hidden="true" tabindex="-1"></a>          <span class="at">color=</span><span class="cn">NA</span>, <span class="at">alpha=</span>.<span class="dv">66</span>, <span class="at">show.legend =</span> <span class="cn">FALSE</span>) <span class="sc">+</span></span>
+<span id="cb13-11"><a href="#cb13-11" aria-hidden="true" tabindex="-1"></a>  <span class="fu">theme_void</span>() <span class="sc">+</span></span>
+<span id="cb13-12"><a href="#cb13-12" aria-hidden="true" tabindex="-1"></a>  <span class="fu">scale_fill_gradient</span>(<span class="at">low=</span><span class="fu">grey</span>(<span class="fl">0.9</span>), <span class="at">high=</span><span class="fu">grey</span>(<span class="fl">0.05</span>)) <span class="sc">+</span></span>
+<span id="cb13-13"><a href="#cb13-13" aria-hidden="true" tabindex="-1"></a>  <span class="fu">theme</span>(<span class="at">legend.direction =</span> <span class="st">"horizontal"</span>, </span>
+<span id="cb13-14"><a href="#cb13-14" aria-hidden="true" tabindex="-1"></a>        <span class="at">legend.position  =</span> <span class="fu">c</span>(<span class="fl">0.75</span>,<span class="fl">0.05</span>),</span>
+<span id="cb13-15"><a href="#cb13-15" aria-hidden="true" tabindex="-1"></a>        <span class="at">legend.title     =</span> <span class="fu">element_blank</span>())</span></code><button title="Copy to Clipboard" class="code-copy-button"><i class="bi"></i></button></pre></div>
 <div class="cell-output cell-output-stderr">
 <pre><code>Joining with `by = join_by(land_reg_region)`</code></pre>
 </div>
